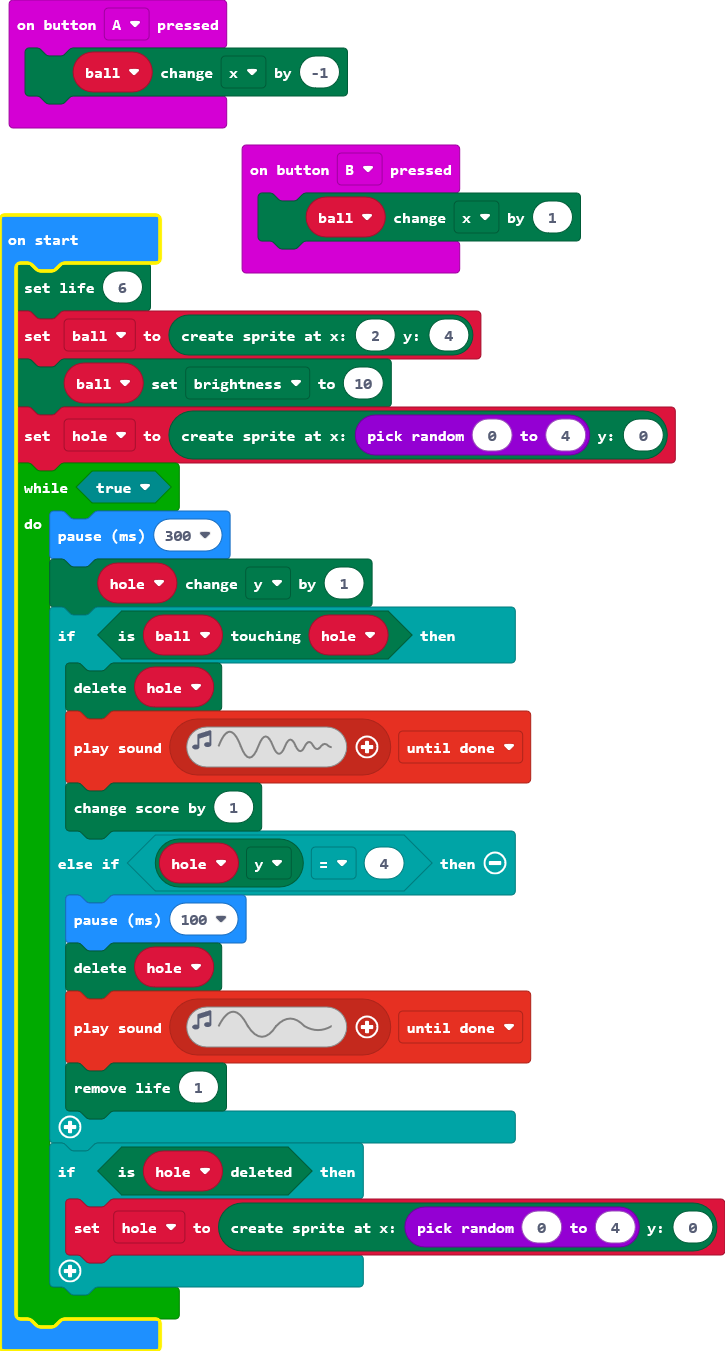
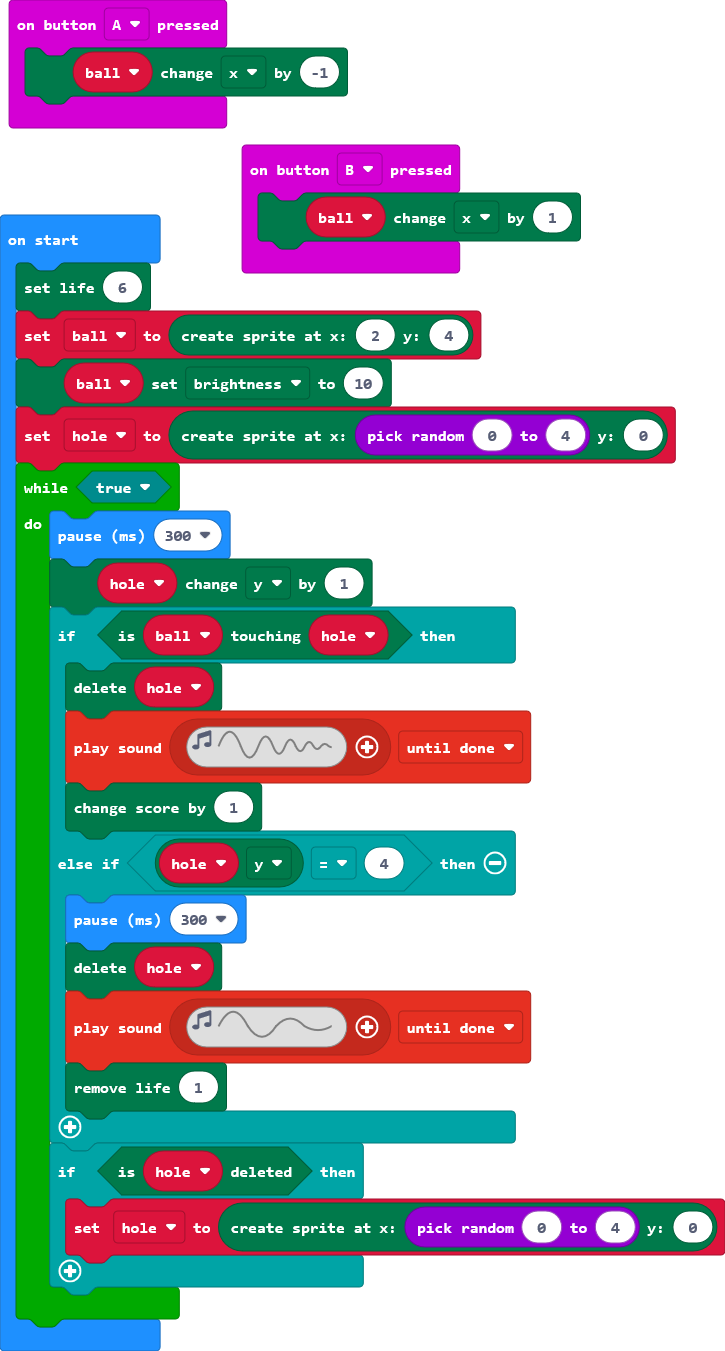
300ms

Changed region(s): [[0.0, 0.1554, 0.2428, 1.0], [0.2124, 0.1554, 0.2428, 0.1865]]

diff --git a/main.ts b/main.ts
@@ -17,7 +17,7 @@ while (true) {
         music.playSoundEffect(music.createSoundEffect(WaveShape.Sine, 1600, 4610, 255, 0, 50, SoundExpressionEffect.None, InterpolationCurve.Curve), SoundExpressionPlayMode.UntilDone)
         game.addScore(1)
     } else if (hole.get(LedSpriteProperty.Y) == 4) {
-        basic.pause(100)
+        basic.pause(300)
         hole.delete()
         music.playSoundEffect(music.createSoundEffect(WaveShape.Sine, 200, 600, 255, 0, 15, SoundExpressionEffect.None, InterpolationCurve.Linear), SoundExpressionPlayMode.UntilDone)
         game.removeLife(1)
